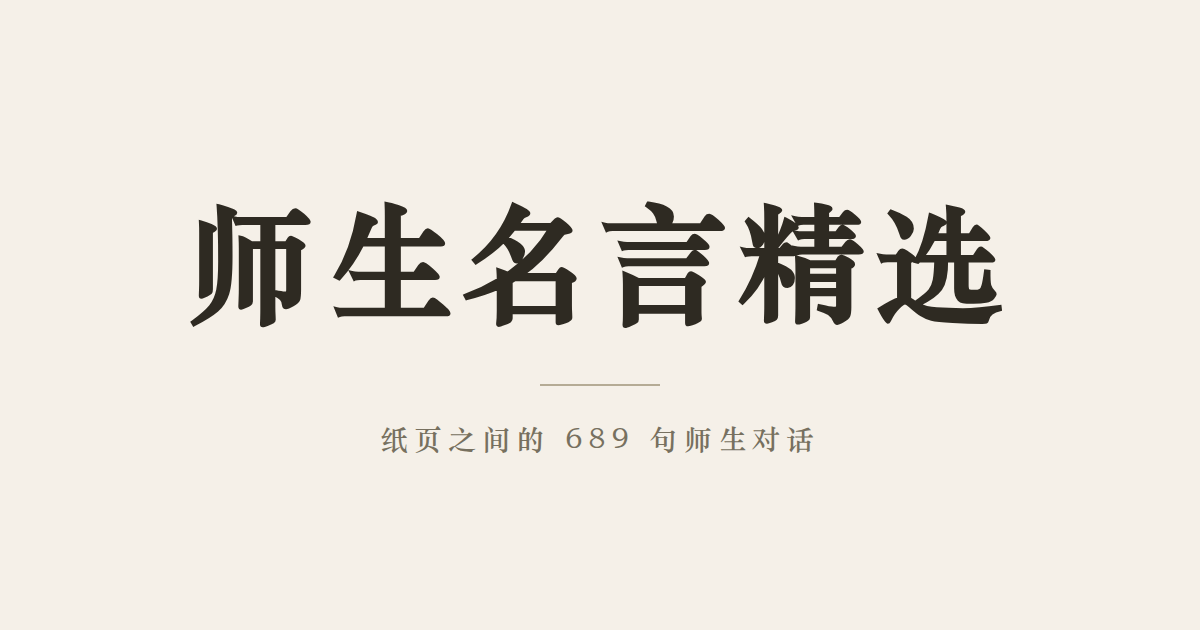
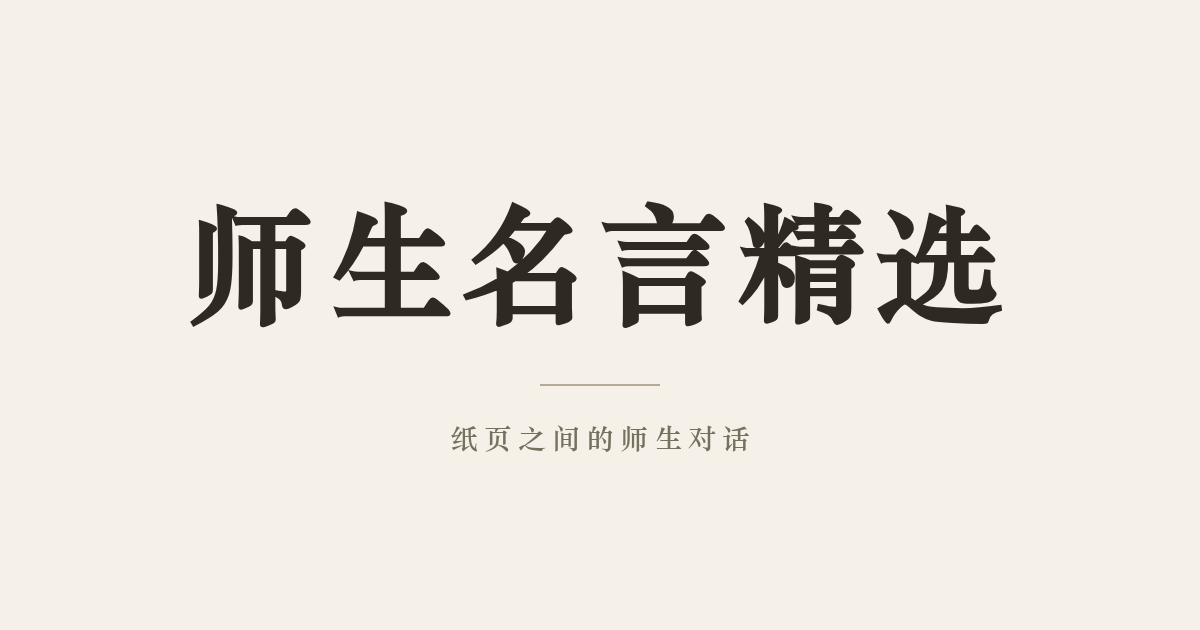
数量与缓存版本改为脚本派生，修复 OG 文案 689/693 不一致
- 新增 tools/sync_meta.py：统一改写 og/twitter/setOgMeta 三处名言总数，
  带 --check 模式与处数断言，文案改为「N 句师生对话」后不再静默失效
- 新增 tools/stamp_sw.py：按 index.html + quotes.js + 字体子集哈希派生
  sw.js 的 CACHE 版本号，消除手工漏升导致的旧缓存
- og-cover.png 去掉名言数量，只留「纸页之间的师生对话」，图片不再过期
- CI 不再 amend + force-push，改为重建/同步/校验后由 bot 单独提交并跳过自身触发
- README 结构、素材张数与维护流程同步更新

Changed region(s): [[0.3083, 0.6635, 0.6783, 0.7238]]

diff --git a/index.html b/index.html
@@ -9,7 +9,7 @@
 <link rel="manifest" href="manifest.json">
 <meta name="theme-color" content="#8a7d5e">
 <meta property="og:title" content="师生名言精选">
-<meta property="og:description" content="纸页之间的 689 句师生对话">
+<meta property="og:description" content="纸页之间的 693 句师生对话">
 <meta property="og:type" content="website">
 <meta property="og:url" content="https://teacherstudentquotes.github.io/">
 <meta property="og:image" content="https://teacherstudentquotes.github.io/img/og-cover.png">
@@ -18,7 +18,7 @@
 <meta property="og:site_name" content="师生名言精选">
 <meta name="twitter:card" content="summary_large_image">
 <meta name="twitter:title" content="师生名言精选">
-<meta name="twitter:description" content="纸页之间的 689 句师生对话">
+<meta name="twitter:description" content="纸页之间的 693 句师生对话">
 <meta name="twitter:image" content="https://teacherstudentquotes.github.io/img/og-cover.png">
 <link rel="stylesheet" href="https://cdnjs.cloudflare.com/ajax/libs/bootstrap-icons/1.11.3/font/bootstrap-icons.min.css">
 <link rel="stylesheet" href="https://cdn.jsdelivr.net/npm/katex@0.16.11/dist/katex.min.css" crossorigin="anonymous">
@@ -763,7 +763,7 @@ rt {
   height: 100dvh;
   position: relative;
   display: none;
-  overflow-y: hidden; /* 引言在任何机型都放得下(689条实测)；纵向浏览走JS手动scrollTop，原生滚动永不介入 */
+  overflow-y: hidden; /* 引言在任何机型都放得下(实测)；纵向浏览走JS手动scrollTop，原生滚动永不介入 */
   -webkit-overflow-scrolling: touch;
   touch-action: pinch-zoom; /* 单指平移全部交JS(横=翻页/纵=手动滚)，零原生滚动泄漏；保留双指缩放 */
   overscroll-behavior: none; /* 滚动到顶/底不再拽动整页 */
@@ -2529,7 +2529,7 @@ function showList() {
   listView.style.display = 'flex';
   quoteView.classList.remove('show');
   document.title = '名言';
-  setOgMeta('师生名言精选', '纸页之间的 689 句师生对话');
+  setOgMeta('师生名言精选', '纸页之间的 693 句师生对话');
 
   history.replaceState(null, '', location.pathname + location.search);
 

diff --git a/sw.js b/sw.js
@@ -1,4 +1,4 @@
-const CACHE = 'tsq-v153';
+const CACHE = 'tsq-901f1d51bc';
 const CORE = [
   '.',
   'index.html',

diff --git a/tools/sync_meta.py b/tools/sync_meta.py
@@ -1,0 +1,80 @@
+#!/usr/bin/env python3
+"""把 quotes.js 的名言总数同步进 index.html 的描述文案。
+
+index.html 里一共有三处带数字的文案，全部由本脚本统一改写：
+  - <meta property="og:description">
+  - <meta name="twitter:description">
+  - setOgMeta(...)（切页时刷新分享信息）
+文案形态支持 `N 句师生对话` 与早期的 `N 条师生名言` 两种，改版换措辞不用改脚本。
+
+用法:
+    python3 tools/sync_meta.py           # 写入（数字已对时不落盘）
+    python3 tools/sync_meta.py --check   # 只校验，不一致返回 1
+
+CI 里先写入再 --check，任何一处漏改都会让任务失败，而不是静默放过。
+"""
+import re
+import sys
+from pathlib import Path
+
+ROOT = Path(__file__).resolve().parent.parent
+QUOTES = ROOT / "quotes.js"
+INDEX = ROOT / "index.html"
+
+# 数量后面紧跟的中文措辞；新增措辞时在这里补一条
+PATTERN = re.compile(r"(\d+)(\s*)(句师生对话|条师生名言)")
+
+# index.html 里应当被同步的处数。模板改版（比如去掉 twitter meta）时同步调整此值，
+# 数字对不上就报错，而不是让脚本"少改一处也返回成功"。
+EXPECTED_MATCHES = 3
+
+
+def count_quotes() -> int:
+    text = QUOTES.read_text(encoding="utf-8")
+    return len(re.findall(r"new Quote\(", text))
+
+
+def line_no(text: str, pos: int) -> int:
+    return text.count("\n", 0, pos) + 1
+
+
+def main() -> int:
+    check_only = "--check" in sys.argv[1:]
+    count = count_quotes()
+    text = INDEX.read_text(encoding="utf-8")
+
+    matches = list(PATTERN.finditer(text))
+    if len(matches) != EXPECTED_MATCHES:
+        print(
+            f"错误：index.html 中匹配到 {len(matches)} 处数量文案，期望 {EXPECTED_MATCHES} 处。\n"
+            "       若文案模板有改动，请同步更新 EXPECTED_MATCHES。",
+            file=sys.stderr,
+        )
+        return 1
+
+    stale = [m for m in matches if int(m.group(1)) != count]
+    for m in stale:
+        print(
+            f"  index.html:{line_no(text, m.start())}  "
+            f"{m.group(1)} -> {count}（{m.group(3)}）"
+        )
+
+    if check_only:
+        if stale:
+            print(f"校验失败：{len(stale)} 处数量与 quotes.js（{count} 条）不一致。", file=sys.stderr)
+            return 1
+        print(f"校验通过：{len(matches)} 处数量均为 {count}。")
+        return 0
+
+    if not stale:
+        print(f"已是最新：{len(matches)} 处数量均为 {count}。")
+        return 0
+
+    new_text = PATTERN.sub(lambda m: f"{count}{m.group(2)}{m.group(3)}", text)
+    INDEX.write_text(new_text, encoding="utf-8")
+    print(f"已同步 {len(stale)} 处数量为 {count}。")
+    return 0
+
+
+if __name__ == "__main__":
+    sys.exit(main())

diff --git a/tools/stamp_sw.py b/tools/stamp_sw.py
@@ -1,0 +1,66 @@
+#!/usr/bin/env python3
+"""按核心静态资源内容派生 Service Worker 的缓存版本号。
+
+sw.js 的 CACHE 名决定用户端缓存是否失效，手工维护极易漏升
+（历史上 v140–144 就因为 sed 误解析被静默跳过）。本脚本用内容哈希生成：
+
+    const CACHE = 'tsq-<sha1(index.html + quotes.js + 字体子集)[:10]>';
+
+任何一处内容变化都会换新版本，sw 的 install 阶段即重新拉取核心资源。
+
+用法:
+    python3 tools/stamp_sw.py           # 写入
+    python3 tools/stamp_sw.py --check   # 只校验，不一致返回 1
+"""
+import hashlib
+import re
+import sys
+from pathlib import Path
+
+ROOT = Path(__file__).resolve().parent.parent
+SW = ROOT / "sw.js"
+
+# 决定用户端缓存内容的文件；改动其中任何一个都必须失效旧缓存
+CORE_FILES = (
+    "index.html",
+    "quotes.js",
+    "fonts/STZHONGS.subset.woff2",
+)
+
+PATTERN = re.compile(r"const CACHE = 'tsq-[^']*';")
+
+
+def digest() -> str:
+    h = hashlib.sha1()
+    for name in CORE_FILES:
+        h.update(name.encode("utf-8"))
+        h.update((ROOT / name).read_bytes())
+    return h.hexdigest()[:10]
+
+
+def main() -> int:
+    check_only = "--check" in sys.argv[1:]
+    version = f"tsq-{digest()}"
+    text = SW.read_text(encoding="utf-8")
+
+    m = PATTERN.search(text)
+    if not m:
+        print("错误：sw.js 中找不到 const CACHE = 'tsq-...'; 声明。", file=sys.stderr)
+        return 1
+
+    current = m.group(0).split("'")[1]
+    if current == version:
+        print(f"校验通过：CACHE = {version}" if check_only else f"已是最新：CACHE = {version}")
+        return 0
+
+    if check_only:
+        print(f"校验失败：sw.js 为 {current}，应为 {version}（请运行 tools/stamp_sw.py）。", file=sys.stderr)
+        return 1
+
+    SW.write_text(PATTERN.sub(f"const CACHE = '{version}';", text, count=1), encoding="utf-8")
+    print(f"已更新 CACHE：{current} -> {version}")
+    return 0
+
+
+if __name__ == "__main__":
+    sys.exit(main())

diff --git a/README.md b/README.md
@@ -10,7 +10,7 @@
 .
 ├── index.html          # 单文件应用：页面结构、全部样式与交互逻辑都在这一个文件里
 ├── quotes.js           # 数据层：教师简表、班级学生字典、Quote 类、名言数组
-├── sw.js               # Service Worker：离线缓存核心资源（改动静文件需同步升 CACHE 版本号）
+├── sw.js               # Service Worker：离线缓存核心资源（CACHE 版本由 tools/stamp_sw.py 按内容哈希生成）
 ├── manifest.json       # PWA 清单
 │
 ├── fonts/              # 字体
@@ -21,21 +21,25 @@
 ├── img/                # 静态图片
 │   ├── favicon.ico
 │   ├── cry.png                 # 搜索无结果时的插图
-│   └── og-cover.png            # Open Graph 分享卡片
+│   └── og-cover.png            # Open Graph 分享卡片（不写名言数量，数量只在 meta 文案里）
 │
 ├── source/             # 原始素材：名言手写纸扫描/照片（按册分目录，不参与网站构建）
-│   ├── 心形纸.jpg
+│   ├── 心形纸.jpg              # 1 张
 │   ├── 第一册/                  # 20 张
-│   ├── 第二册/                  # 1 张
+│   ├── 第二册/                  # 20 张
 │   └── 第三册/                  # 10 张
 │
 ├── tools/
-│   └── regen_font.py           # 字体子集化脚本：收集 quotes.js / index.html 中所有非 ASCII
-│                               # 字符，用 pyftsubset 重生成 STZHONGS.subset.woff2
+│   ├── regen_font.py           # 字体子集化：收集 quotes.js / index.html 中所有非 ASCII
+│   │                           # 字符，用 pyftsubset 重生成 STZHONGS.subset.woff2
+│   ├── sync_meta.py            # 把 quotes.js 的名言总数写进 index.html 的三处描述文案
+│   │                           # （og:description / twitter:description / setOgMeta）
+│   └── stamp_sw.py             # 按 index.html + quotes.js + 字体子集的内容哈希派生
+│                               # sw.js 的 CACHE 版本号，内容一变缓存必然失效
 │
 └── .github/workflows/
-    └── rebuild-font.yml        # push 到 main 且改到 quotes.js / index.html / tools 时自动运行：
-                                # 重建字体子集 + 把名言总数同步进 OG 描述，amend 进触发提交
+    └── rebuild-font.yml        # push 到 main 且改到 quotes.js / index.html / tools / 字体源文件时：
+                                # 重建字体子集 → 同步名言总数 → 刷新 SW 版本号 → 校验 → 由 bot 单独提交
 ```
 
 ## 名言数据格式
@@ -48,15 +52,29 @@ new Quote('高子', `名言内容`, ["标签"])
 
 - 第一个参数传**教师简称**（如 `'高子'`）会自动解析为全名；传 `student(班级, 学号)` 或任意字符串则原样显示。
 - 教师简称在文件顶部的 `teachers` 数组中维护；学生在 `students` 字典（按班级分组）。
+- 第四个参数是原稿位置 `'册-页'`（如 `'2-7'`，跨页写 `'2-3+2-4'`），"看原稿"功能用；编者手记不传。
 
 ## 常用维护流程
 
-**添加名言**：直接编辑 `quotes.js` → push。CI 会自动重建字体子集并同步 OG 卡片上的名言数量，无需手动运行脚本。本地若想立即生效，也可手动跑：
+**添加名言**：直接编辑 `quotes.js` → push。CI 会自动重建字体子集、同步 OG/分享文案里的名言总数、刷新 Service Worker 的缓存版本号，然后以一条独立的 bot 提交推回 main（提交信息带 `[skip ci]`，不会二次触发自己）。
+
+本地若想立即生效，可手动跑同一套脚本：
 
 ```bash
 pip install fonttools brotli
-python3 tools/regen_font.py
+python3 tools/regen_font.py    # 重建字体子集
+python3 tools/sync_meta.py     # 同步名言数量
+python3 tools/stamp_sw.py      # 派生 SW 缓存版本
 ```
+
+推之前建议先校验一遍（CI 里也会跑同样的检查，不一致直接失败，不会静默放过）：
+
+```bash
+python3 tools/sync_meta.py --check
+python3 tools/stamp_sw.py --check
+```
+
+> `index.html` 里的数量文案由 `sync_meta.py` 统一改写，**不要手工改数字**；`sw.js` 的 `CACHE` 由 `stamp_sw.py` 生成，**不要手工改版本号**。改文案措辞时，记得同步 `sync_meta.py` 里的正则与 `EXPECTED_MATCHES`。
 
 **本地预览**：
 
